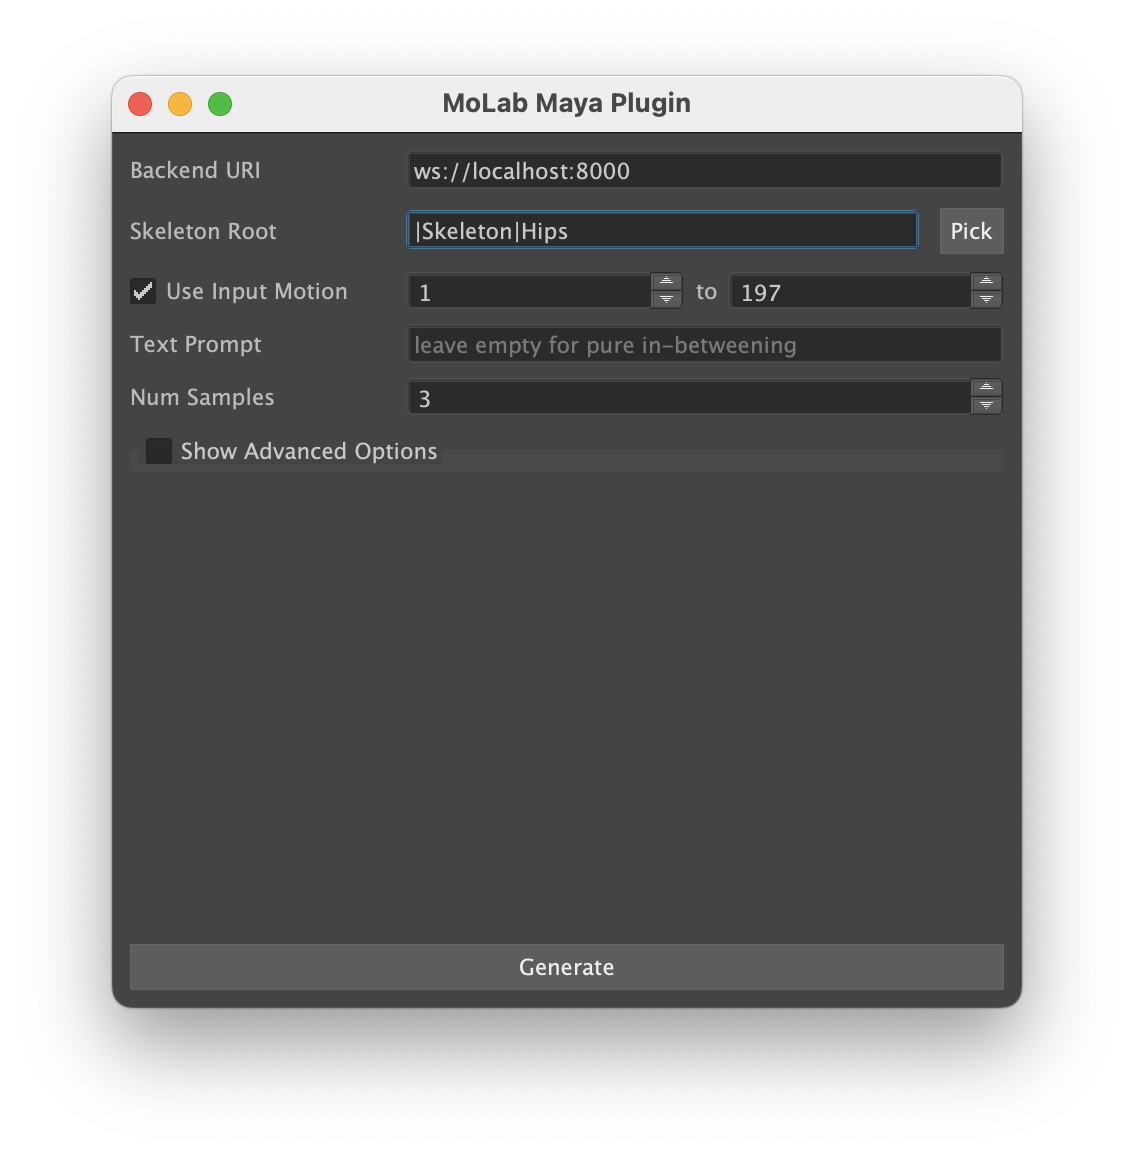
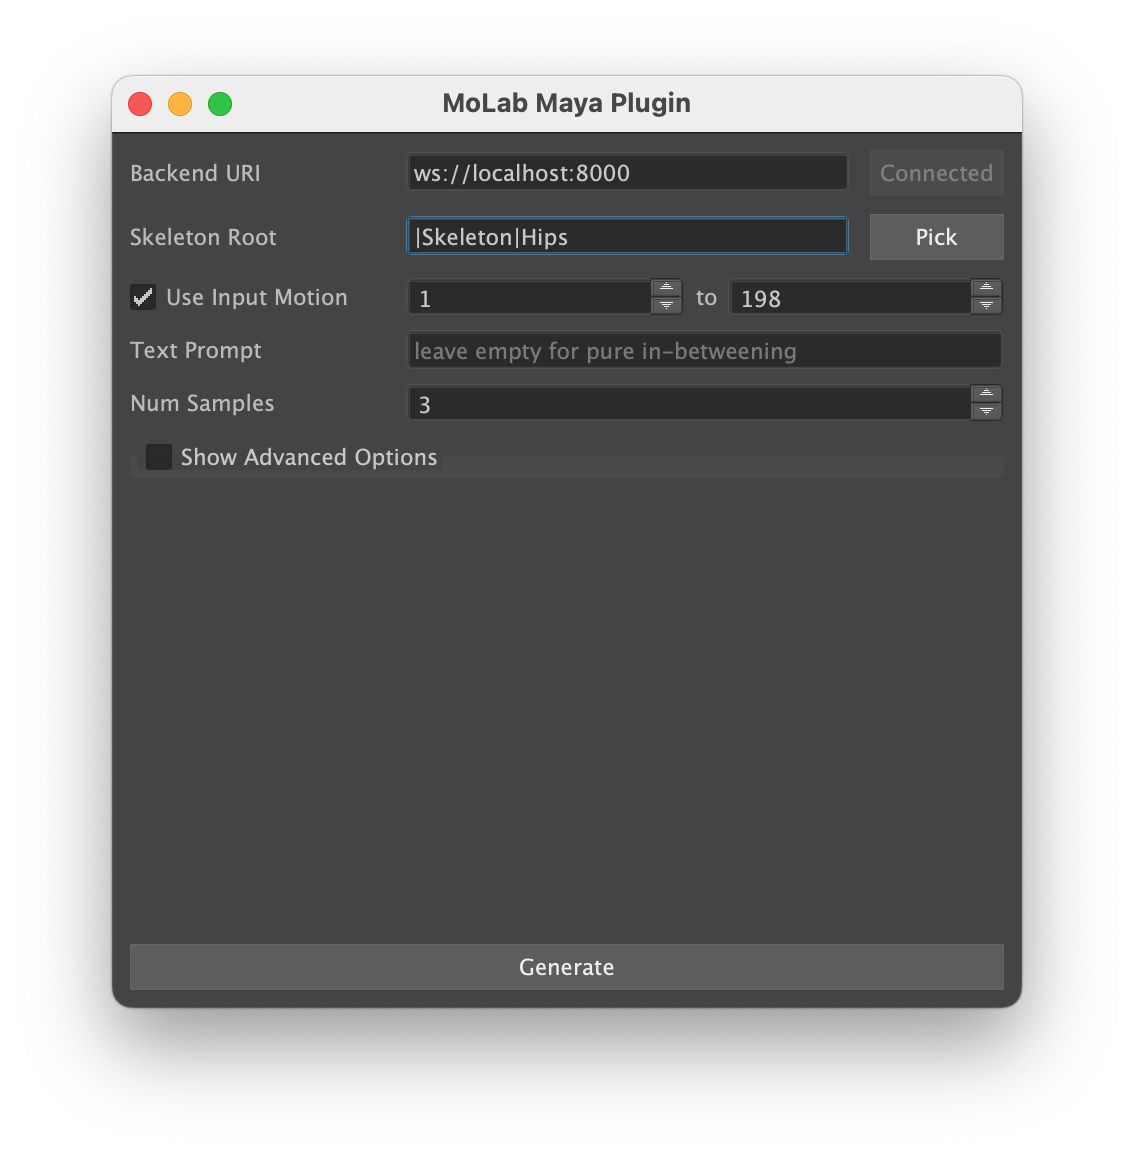
show connection status in maya plugin

diff --git a/dcc/molab_maya/ui/molab_window.py b/dcc/molab_maya/ui/molab_window.py
@@ -20,20 +20,28 @@ class MoLabWindow(QtWidgets.QMainWindow):
         loadUi(ui_path.as_posix(), self)
         self.widget_advanced.setVisible(False)
         self.btn_generate.setEnabled(False)
-        self.connect_signals()
+        self.skeleton_valid = False
         self.client = MoLabQClient()
-        self.client.inference_received.connect(self.on_inference_received)
+        self.connect_signals()
         self.client.open()
 
     def connect_signals(self):
+        self.client.inference_received.connect(self.on_inference_received)
+        self.client.connected.connect(self.on_connect)
+        self.client.disconnected.connect(self.on_disconnect)
+
         self.grp_advanced.toggled.connect(self.widget_advanced.setVisible)
         self.le_backend.textChanged.connect(self.on_backend_changed)
+        self.btn_connect.pressed.connect(self.on_connect_pressed)
         self.btn_pick_skeleton.pressed.connect(self.on_pick_skeleton)
         self.btn_generate.pressed.connect(self.on_generate)
 
-    def on_backend_changed(self, text):
+    def on_backend_changed(self):
         self.client.close()
-        self.client.backend_uri = text
+
+    def on_connect_pressed(self):
+        self.client.close()
+        self.client.backend_uri = self.le_backend.text()
         self.client.open()
 
     def on_pick_skeleton(self):
@@ -41,11 +49,15 @@ class MoLabWindow(QtWidgets.QMainWindow):
             self.joints = motion_io.get_selected_skeleton_joints()
             self.skeleton_group = self.joints[0].getParent()
             self.le_skeleton.setText(self.joints[0].longName())
-            self.btn_generate.setEnabled(True)
+            self.skeleton_valid = True
         except ValueError as e:
             QtWidgets.QMessageBox.warning(self, "Warning", str(e))
-            self.btn_generate.setEnabled(False)
-            return
+            self.skeleton_valid = False
+        self.update_generate_button()
+
+    def update_generate_button(self):
+        generation_enabled = self.skeleton_valid and self.client.is_connected()
+        self.btn_generate.setEnabled(generation_enabled)
 
     def on_generate(self):
         startframe = self.sb_startframe.value()
@@ -75,6 +87,18 @@ class MoLabWindow(QtWidgets.QMainWindow):
         self.btn_generate.setEnabled(False)
         self.btn_generate.setText("Generating, please wait...")
         self.client.infer(inference_args)
+
+    def on_connect(self):
+        print("Connected to MoLab backend!")
+        self.btn_connect.setEnabled(False)
+        self.btn_connect.setText("Connected")
+        self.update_generate_button()
+
+    def on_disconnect(self):
+        print("Disconnected from MoLab backend!")
+        self.btn_connect.setEnabled(True)
+        self.btn_connect.setText("Connect")
+        self.update_generate_button()
 
     def on_inference_received(self, inference_result):
         motion_io.import_motions(

diff --git a/dcc/molab_maya/qclient.py b/dcc/molab_maya/qclient.py
@@ -1,5 +1,6 @@
 from qtpy.QtCore import QObject, QUrl, Signal
 from qtpy.QtWebSockets import QWebSocket
+from qtpy.QtNetwork import QAbstractSocket
 
 import json
 
@@ -10,6 +11,7 @@ class MoLabQClient(QObject):
     """
     inference_received = Signal(dict)
     connected = Signal()
+    disconnected = Signal()
 
     def __init__(self, backend_uri="ws://localhost:8000"):
         """
@@ -21,6 +23,7 @@ class MoLabQClient(QObject):
         super().__init__()
         self.backend_uri = backend_uri
         self.websocket = QWebSocket()
+        self.websocket.disconnected.connect(self.disconnected.emit)
         self.websocket.connected.connect(self.connected.emit)
         self.websocket.textMessageReceived.connect(self.on_message_received)
 
@@ -48,6 +51,9 @@ class MoLabQClient(QObject):
         print("Sending inference request ...")
         inference_args["type"] = "infer"
         self.websocket.sendTextMessage(json.dumps(inference_args))
+
+    def is_connected(self):
+        return self.websocket.state() == QAbstractSocket.SocketState.ConnectedState
 
     def on_message_received(self, message):
         """

diff --git a/docs/getting-started/first-steps.md b/docs/getting-started/first-steps.md
@@ -71,7 +71,10 @@ This will open up a new window with the MoLab Maya Plugin.
 
 ![MoLab Maya Plugin](../assets/MoLab_maya_plugin.png)
 
-Now select the characters `Hips` joint and press the "Pick" Button in the plugin. This will validate the skeleton and set up the plugin for inference.
+First supply a Backend URI, which should be `ws://localhost:8000` if you are running the backend locally.
+Then press the "Connect" Button to establish a connection to the backend.
+The button should change to "Connected" if the connection was successful.
+Now select the characters `Hips` joint in Maya and press the "Pick" Button in the plugin. This will validate the skeleton and set up the plugin for inference.
 Next, adjust the input range to your desired keyframes and optionally add a prompt text.
 In this example we leave the prompt text empty and do pure in-betweening.
 

diff --git a/docs/usage/maya-plugin.md b/docs/usage/maya-plugin.md
@@ -21,4 +21,3 @@ The basic workflow is as follows:
 There are also advanced options available, which are explained further in the [Inference Parameter Guide](inference-parameters.md).
 
 ![Advanced Options of the MoLab Maya Plugin](../assets/MoLab_maya_plugin_advanced.png)
-
